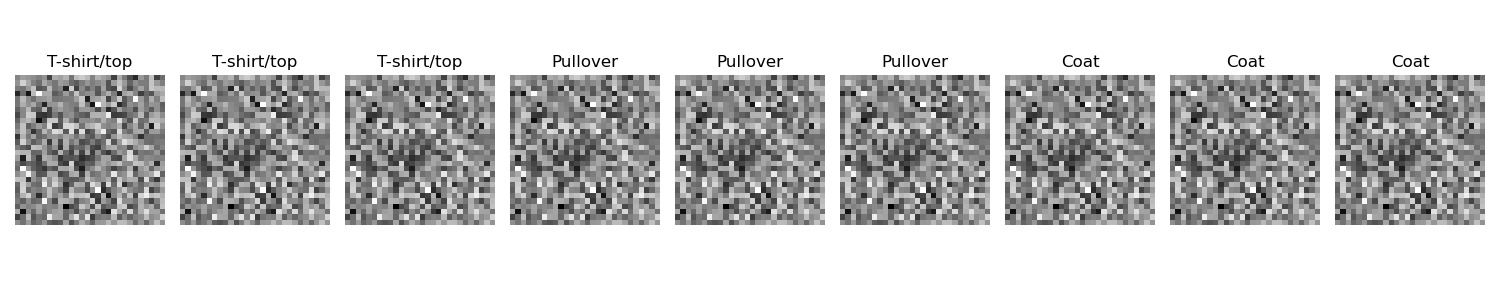
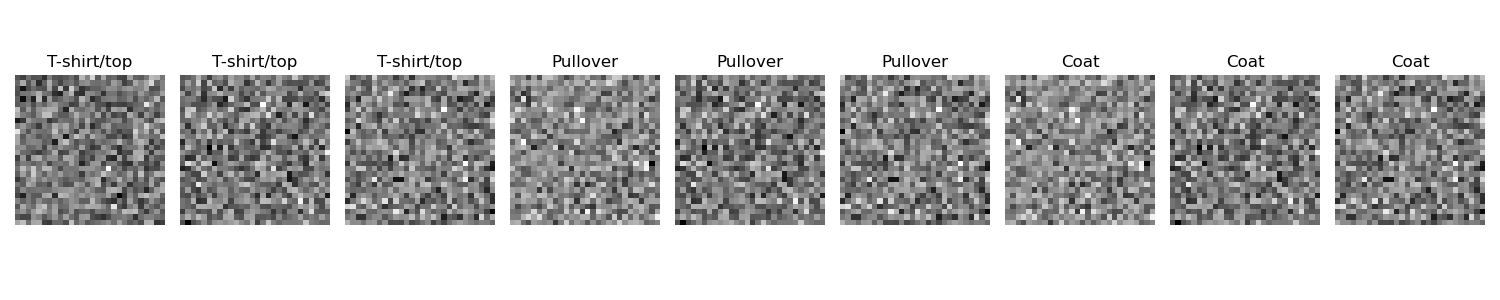
reduce batch size

diff --git a/compare_models.py b/compare_models.py
@@ -11,6 +11,9 @@ import equinox as eqx
 import jpc
 import optax
 
+# Import specific solvers and controllers for PCN
+from diffrax import Dopri5, Tsit5, PIDController
+
 import torch
 import torch.nn as nn
 import torch.optim as optim
@@ -72,13 +75,13 @@ def prepare_dataset():
     return (train_dataset_torch, test_dataset_torch), (train_dataset_jax, test_dataset_jax)
 
 # Function to create data loaders for specific tasks
-def make_loader_torch(dataset, cls_ids, batch_size=256, shuffle=True):
+def make_loader_torch(dataset, cls_ids, batch_size=32, shuffle=True):
     """Create a PyTorch DataLoader for specific class IDs."""
     idx = [i for i, (_, y) in enumerate(dataset) if y in cls_ids]
     subset = Subset(dataset, idx)
     return DataLoader(subset, batch_size=batch_size, shuffle=shuffle)
 
-def make_loader_jax(dataset, cls_ids, batch_size=256, shuffle=True):
+def make_loader_jax(dataset, cls_ids, batch_size=32, shuffle=True):
     """Create a JAX-compatible DataLoader for specific class IDs."""
     idx = [i for i, (_, y) in enumerate(dataset) if y in cls_ids]
     subset = Subset(dataset, idx)
@@ -91,7 +94,7 @@ def evaluate_bp(model, tasks, test_dataset, device):
     accuracies = []
     
     for cls_ids in tasks:
-        loader = make_loader_torch(test_dataset, cls_ids, batch_size=256, shuffle=False)
+        loader = make_loader_torch(test_dataset, cls_ids, batch_size=128, shuffle=False)
         correct = 0
         total = 0
         
@@ -116,16 +119,13 @@ def evaluate_pcn(model, tasks, test_dataset):
     accuracies = []
     
     for cls_ids in tasks:
-        loader = make_loader_jax(test_dataset, cls_ids, batch_size=256, shuffle=False)
+        loader = make_loader_jax(test_dataset, cls_ids, batch_size=128, shuffle=False)
         correct = 0
         total = 0
         
         for x_batch, y_batch in loader:
             # Prepare input
-            x_batch = x_batch.reshape(x_batch.shape[0], -1)  # Flatten images
-            
-            # Forward pass (inference)
-            z0 = jnp.array(x_batch)
+            z0 = jnp.array(x_batch.reshape(x_batch.shape[0], -1))  # Flatten images
             
             # Initialize activities with feedforward pass
             activities = jpc.init_activities_with_ffwd(model=model, input=z0)
@@ -133,12 +133,15 @@ def evaluate_pcn(model, tasks, test_dataset):
             # Create a dummy output for evaluation (zeros with the right shape)
             dummy_output = jnp.zeros((z0.shape[0], 10))
             
-            # Run inference to equilibrium
+            # Run inference to equilibrium with improved parameters
             converged_activities = jpc.solve_inference(
                 params=(model, None),
                 activities=activities,
                 output=dummy_output,  # Dummy output with correct shape
-                input=z0
+                input=z0,
+                solver=Tsit5(),  # More sophisticated solver
+                max_t1=50,  # Increased from default 20
+                stepsize_controller=PIDController(rtol=1e-4, atol=1e-4)  # Stricter tolerances
             )
             
             # Get predictions from the last layer's output
@@ -164,18 +167,30 @@ def generate_dream_images(model, class_idx, num_images=5):
         zT = jax.nn.one_hot(jnp.array([class_idx]), 10)[0]
         
         # Start with random noise at the bottom layer for better dream generation
-        key = jax.random.PRNGKey(42)
+        key = jax.random.PRNGKey(int(time.time()) + _)  # Different seed for each image
         z0 = jax.random.normal(key, (1, 28*28)) * 0.01
         
-        # Initialize activities with the random input
-        activities = jpc.init_activities_with_ffwd(model=model, input=z0)
+        # Initialize activities for all layers
+        activities = []
+        # First layer is random noise
+        activities.append(z0)
+        # Initialize hidden layers with small random values
+        activities.append(jax.random.normal(key, (1, 256)) * 0.01)
+        activities.append(jax.random.normal(key, (1, 256)) * 0.01)
+        # Last layer is clamped to the target class
+        activities.append(zT.reshape(1, -1))
         
-        # Run inference to equilibrium with clamped output
+        # Run inference to equilibrium with improved parameters
+        # Note: For dream generation, we clamp the output layer to the target class
+        # and let the network infer the input that would generate this output
         converged_activities = jpc.solve_inference(
             params=(model, None),
             activities=activities,
-            output=zT.reshape(1, -1),
-            input=z0
+            output=zT.reshape(1, -1),  # Clamp output to target class
+            input=None,  # No input clamping
+            solver=Tsit5(),  # More sophisticated solver
+            max_t1=100,  # Even longer for dream generation
+            stepsize_controller=PIDController(rtol=1e-5, atol=1e-5)  # Even stricter tolerances
         )
         
         # In the new JPC API, the converged_activities structure is different
@@ -223,6 +238,23 @@ def main():
     # Create optimizers
     pcn_optim = optax.adam(1e-3)
     pcn_opt_state = pcn_optim.init((eqx.filter(pcn_model, eqx.is_array), None))
+    
+    # Print information about the inference parameter adjustments
+    print("\nPCN Inference Parameter Adjustments:")
+    print("  - Using Tsit5 ODE solver (more sophisticated than default Heun)")
+    print("  - Increased max_t1 from 20 to 50 for training and 100 for dream generation")
+    print("  - Tightened convergence tolerances from 1e-3 to 1e-4 for training")
+    print("  - Even stricter tolerances (1e-5) for dream generation")
+    print("  - Monitoring convergence during training to detect timeout events")
+    print("  - Reduced batch size from 128 to 32 for more granular learning")
+    print("  - Increased evaluation frequency (every 2 batches instead of 5)")
+    print("\nThese adjustments should help PCN reach better equilibrium states,")
+    print("potentially revealing its advantages in mitigating catastrophic forgetting.")
+    print("The 'goldilocks zone' we're targeting is where PCN can properly converge")
+    print("to meaningful equilibrium states while BP cannot overcome its inherent limitations.")
+    print("The smaller batch size will allow for more frequent evaluations and")
+    print("more effective early stopping, preventing overfitting to current tasks.")
+    
     bp_optimizer = optim.Adam(bp_model.parameters(), lr=1e-3)
     bp_criterion = nn.CrossEntropyLoss()
     
@@ -237,9 +269,9 @@ def main():
     for t, cls_ids in enumerate(TASKS, 1):
         print(f"\n=== Task {t}: Classes {[CLASS_NAMES[i] for i in cls_ids]} ===")
         
-        # Create data loaders
-        pcn_loader = make_loader_jax(train_dataset_jax, cls_ids)
-        bp_loader = make_loader_torch(train_dataset_torch, cls_ids)
+        # Create data loaders with smaller batch size
+        pcn_loader = make_loader_jax(train_dataset_jax, cls_ids, batch_size=32)
+        bp_loader = make_loader_torch(train_dataset_torch, cls_ids, batch_size=32)
         
         # Train PCN model
         print("Training PCN model...")
@@ -247,11 +279,11 @@ def main():
         
         # Early stopping variables
         pcn_early_stop = False
-        pcn_eval_interval = 5  # Check accuracy every 5 batches
+        pcn_eval_interval = 2  # Check accuracy more frequently (every 2 batches)
         pcn_target_acc = 0.90  # Stop at 90% accuracy
         
         # Create a smaller validation set from the current task
-        val_loader_jax = make_loader_jax(test_dataset_jax, cls_ids, batch_size=256, shuffle=False)
+        val_loader_jax = make_loader_jax(test_dataset_jax, cls_ids, batch_size=128, shuffle=False)
         
         # Training loop with early stopping
         for batch_idx, (x_batch, y_batch) in enumerate(tqdm(pcn_loader, desc=f"PCN Task {t}")):
@@ -259,14 +291,28 @@ def main():
             z0 = jnp.array(x_batch.reshape(x_batch.shape[0], -1))
             zT = jax.nn.one_hot(jnp.array(y_batch), 10)
             
-            # Use JPC's make_pc_step to handle both inference and parameter updates
+            # Use JPC's make_pc_step with improved inference parameters
+            # Increase max_t1 to allow more time for convergence
+            # Use a more sophisticated ODE solver (Tsit5)
+            # Tighten convergence criteria with stricter tolerances
             result = jpc.make_pc_step(
                 model=pcn_model,
                 optim=pcn_optim,
                 opt_state=pcn_opt_state,
                 output=zT,
-                input=z0
+                input=z0,
+                ode_solver=Tsit5(),  # More sophisticated solver than default Heun
+                max_t1=50,  # Increased from default 20 to allow more time for convergence
+                stepsize_controller=PIDController(rtol=1e-4, atol=1e-4),  # Stricter tolerances
+                record_activities=True  # Record activities to monitor convergence
             )
+            
+            # Monitor if inference reached equilibrium or hit timeout
+            if "activities" in result and len(result["activities"]) > 0:
+                # Check if the last recorded activity was at the max_t1 (timeout)
+                last_t = len(result["activities"][0]) - 1
+                if last_t >= 49:  # If close to max_t1=50, likely hit timeout
+                    print(f"  PCN Batch {batch_idx+1}: Inference may have hit timeout")
             
             # Update model and optimizer state
             pcn_model, pcn_opt_state = result["model"], result["opt_state"]
@@ -290,11 +336,11 @@ def main():
         
         # Early stopping variables
         bp_early_stop = False
-        bp_eval_interval = 5  # Check accuracy every 5 batches
+        bp_eval_interval = 2  # Check accuracy more frequently (every 2 batches)
         bp_target_acc = 0.90  # Stop at 90% accuracy
         
         # Create a smaller validation set from the current task
-        val_loader_torch = make_loader_torch(test_dataset_torch, cls_ids, batch_size=256, shuffle=False)
+        val_loader_torch = make_loader_torch(test_dataset_torch, cls_ids, batch_size=128, shuffle=False)
         
         # Training loop with early stopping
         bp_model.train()
